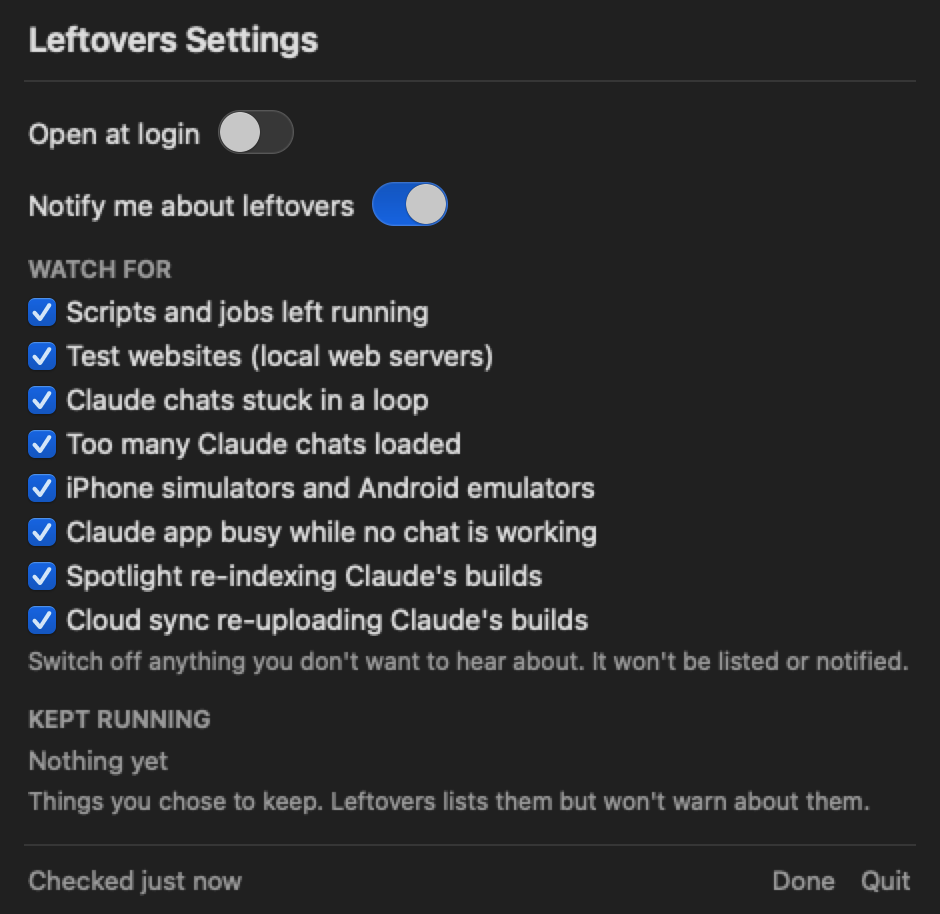
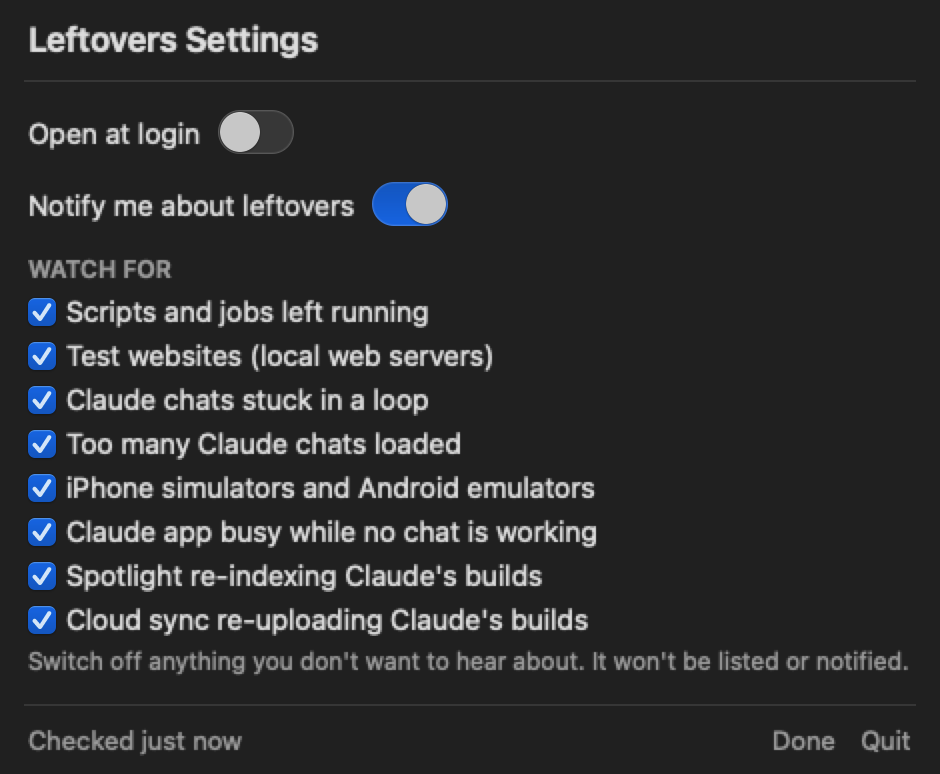
Keep = 'still using it now' (moves to In use, greyed, ends with that run); no unplug notification
- Removed the 'you're on battery' notification
- Keep applies to that one run only: the row moves to Running · in use, greyed, and comes
  back as normal next time; the Kept list in Settings is gone
- Spotlight and cloud sync get 'Don't warn again' (switches that check off)

Changed region(s): [[0.0309, 0.031, 0.9564, 0.8992], [0.0309, 0.9302, 0.2468, 0.9922], [0.8021, 0.9302, 0.9564, 0.9922]]

diff --git a/Sources/Leftovers/Monitor.swift b/Sources/Leftovers/Monitor.swift
@@ -21,7 +21,7 @@ final class Monitor: NSObject, ObservableObject {
     @Published var offChecks: Set<Check> {
         didSet { UserDefaults.standard.set(offChecks.map(\.rawValue), forKey: "offChecks") }
     }
-    @Published var kept: [String: String] {   // keepKey → label shown in Settings
+    @Published var kept: [String: String] {   // keepKey → label (things you said you're still using)
         didSet { UserDefaults.standard.set(kept, forKey: "kept") }
     }
 
@@ -124,6 +124,9 @@ final class Monitor: NSObject, ObservableObject {
             return i
         }
         tracks = newTracks
+        // A keep only lasts while that run is going: forget keeps for things that have stopped.
+        let live = Set(items.map(\.keepKey))
+        if kept.keys.contains(where: { !live.contains($0) }) { kept = kept.filter { live.contains($0.key) } }
     }
 
     /// For testing from Terminal: `Leftovers --stop <text>` stops (or closes) the first row whose title contains it.
@@ -219,7 +222,7 @@ final class Monitor: NSObject, ObservableObject {
                             ports: st.ports, connections: st.connections,
                             lastOutput: st.writes.map(\.modified).max(), averageCpu: st.average,
                             startTimes: fam.map { $0.start.timeIntervalSince1970 },
-                            keepKey: "\(classifier.project(for: root.cwd) ?? root.cwd)|\(Describe.title(for: main))",
+                            keepKey: "\(kind.rawValue)-\(root.pid)-\(Int(root.start.timeIntervalSince1970))",
                             noun: st.ports.isEmpty ? Describe.noun(for: main) : "Test website",
                             starter: main.pid != root.pid && root.name != main.name ? Describe.title(for: root) : nil)
             let age = Describe.duration(now.timeIntervalSince(root.start))

diff --git a/Sources/Leftovers/MenuView.swift b/Sources/Leftovers/MenuView.swift
@@ -203,6 +203,7 @@ struct ItemRow: View {
             .disabled(stopping)
             if expanded { details.padding(.leading, 30) }
         }
+        .opacity(item.verdict.tag == "Kept" ? 0.55 : 1)
         .padding(.vertical, 10).padding(.horizontal, 10)
         .background(RoundedRectangle(cornerRadius: 10).fill(Color.primary.opacity(0.05)))
     }
@@ -291,24 +292,26 @@ struct ItemRow: View {
                 a.append((item.kind == .simulator ? "Shut down" : "Stop", stop))
             }
             if m.kept[item.keepKey] != nil {
-                a.append(("Stop keeping", { m.unkeep(item.keepKey) }))
+                a.append(("Undo keep", { m.unkeep(item.keepKey) }))
             } else if item.verdict.level >= .info {
                 a.append(("Keep", { m.keep(item) }))
             }
         case .android:
             a.append(("Shut down", stop))
-            if m.kept[item.keepKey] != nil { a.append(("Stop keeping", { m.unkeep(item.keepKey) })) }
+            if m.kept[item.keepKey] != nil { a.append(("Undo keep", { m.unkeep(item.keepKey) })) }
             else if item.verdict.level >= .info { a.append(("Keep", { m.keep(item) })) }
         case .claudePreview:
             a.append(("Open Claude", { m.openClaude() }))
         case .spotlight:
             a.append(("Open Spotlight settings", { m.openSpotlightSettings() }))
+            a.append(("Don't warn again", { m.switchOff(item) }))
         case .chatHelper:
             if !item.busy { a.append(("Close", stop)) }
         case .helperPileup:
             break
         case .cloudSync:
             if let f = item.apps.first { a.append(("Show folder", { m.reveal(f) })) }
+            a.append(("Don't warn again", { m.switchOff(item) }))
         case .sessionJob:
             break
         }

diff --git a/Sources/Leftovers/Notifier.swift b/Sources/Leftovers/Notifier.swift
@@ -2,8 +2,7 @@ import AppKit
 import IOKit.ps
 import UserNotifications
 
-/// Posts one notification per problem (again only if it gets worse), with Stop/Keep buttons,
-/// plus a single heads-up when you unplug while things are still running.
+/// Posts one notification per problem (again only if it gets worse), with Stop/Keep buttons.
 final class Notifier: NSObject, UNUserNotificationCenterDelegate {
     static let shared = Notifier()
     let m = Monitor.shared
@@ -60,21 +59,6 @@ final class Notifier: NSObject, UNUserNotificationCenterDelegate {
             post(id: i.id, title: title, body: i.verdict.message, category: category, quiet: quiet)
         }
 
-        // Just unplugged: one summary of what is still running.
-        if !wasOnBattery && m.battery.onBattery {
-            let sims = m.items.filter { $0.kind == .simulator }.count
-            let left = m.items.filter { $0.kind == .leftover && !m.kept.keys.contains($0.keepKey) }.count
-            let servers = m.items.filter { $0.kind == .appStarted && !$0.ports.isEmpty }.count
-            var parts: [String] = []
-            if left > 0 { parts.append(left == 1 ? "1 leftover" : "\(left) leftovers") }
-            if sims > 0 { parts.append(sims == 1 ? "1 simulator" : "\(sims) simulators") }
-            if servers > 0 { parts.append(servers == 1 ? "1 dev server" : "\(servers) dev servers") }
-            if !parts.isEmpty {
-                let list = ListFormatter.localizedString(byJoining: parts)
-                post(id: "unplugged", title: "You're on battery",
-                     body: "Still running from Claude: \(list).", category: "review", quiet: quiet)
-            }
-        }
     }
 
     private func post(id: String, title: String, body: String, category: String, quiet: Bool) {

diff --git a/Sources/Leftovers/DemoRender.swift b/Sources/Leftovers/DemoRender.swift
@@ -45,7 +45,7 @@ enum DemoRender {
         let ctx = RuleContext(now: now, onBattery: true, lastSimulatorUse: now.addingTimeInterval(-simUse),
                               lastClaudeWorking: now.addingTimeInterval(-3 * 3600),
                               lastAndroidUse: now.addingTimeInterval(-5 * 3600),
-                              kept: [])
+                              kept: ["kept-demo"])
         demo = demo.map { item in
             var i = item
             let track = Track(firstSeen: i.started, heavySince: i.started,
@@ -87,7 +87,8 @@ enum DemoRender {
                             project: "morse-waldo", ports: [5174], noun: "Test website")
             live.connections = 1
             var simInUse = sim; simInUse.verdict = Verdict(level: .none, tag: ""); simInUse.started = now.addingTimeInterval(-3600)
-            return ([site, live, simInUse], false)
+            var keptLoop = loop; keptLoop.verdict = Verdict(level: .none, tag: "Kept"); keptLoop.keepKey = "kept-demo"
+            return ([site, live, simInUse, keptLoop], false)
         case "leftovers":
             return ([stuck, loop, site], true)
         case "devices":

diff --git a/Sources/Leftovers/Rules.swift b/Sources/Leftovers/Rules.swift
@@ -91,7 +91,7 @@ enum Rules {
         case .spotlight, .cloudSync:
             parts = [busy, "\(i.apps.count) build folder\(i.apps.count == 1 ? "" : "s") changed"]
         }
-        if ctx.kept.contains(i.keepKey) { parts.append("kept") }
+        if ctx.kept.contains(i.keepKey) { parts.append("you're using it") }
         return parts.joined(separator: " · ")
     }
 
@@ -102,7 +102,8 @@ enum Rules {
         let now = ctx.now
         let min = 60.0, hour = 3600.0
 
-        if ctx.kept.contains(i.keepKey) { return Verdict(level: .info, tag: "Kept") }
+        // Kept = "I'm still using it": listed under In use (greyed), no warnings, until it stops.
+        if ctx.kept.contains(i.keepKey) { return Verdict(level: .none, tag: "Kept") }
 
         let cost = i.batteryPerHour.map { $0 >= 1 ? String(format: " It's using about %.0f%% of your battery an hour.", $0) : "" } ?? ""
         let heavyFor = track.heavySince.map { now.timeIntervalSince($0) } ?? 0

diff --git a/Sources/Leftovers/Model.swift b/Sources/Leftovers/Model.swift
@@ -93,7 +93,7 @@ struct Item: Identifiable, Codable, Equatable {
     var lastOutput: Date?         // newest change to a file it is writing
     var averageCpu: Double = 0    // CPU % averaged over each process's whole life
     var startTimes: [Double] = [] // start time of each pid, so Stop never hits a reused pid
-    var keepKey = ""              // what "Keep" remembers (project + command, or device + boot)
+    var keepKey = ""              // what "Keep" applies to: this one run (process + start time, device + boot)
     var verdict = Verdict(level: .none, tag: "")
     var noun = ""                 // plain name of what it is ("Python script", "Video export")
     var starter: String?          // the script that started it, when that's a different program

diff --git a/Tests/LeftoversTests/RulesTests.swift b/Tests/LeftoversTests/RulesTests.swift
@@ -93,6 +93,13 @@ private func heavyTrack(for ago: TimeInterval, connectedAgo: TimeInterval? = nil
     }
 
 
+    @Test func keptMeansInUseForNow() {
+        let i = item(.leftover, cpu: 250, perHour: 8, lastOutputAgo: 47 * hour)
+        let v = Rules.judge(i, track: heavyTrack(for: 48 * hour), ctx: ctx(kept: ["key-x"]))
+        #expect(v.level == .none)   // listed under In use, no warning
+        #expect(Rules.status(i, track: heavyTrack(for: 48 * hour), ctx: ctx(kept: ["key-x"])).hasSuffix("you're using it"))
+    }
+
     @Test func keep() {
         let i = item(.leftover, cpu: 250, perHour: 8, lastOutputAgo: 47 * hour)
         let t = heavyTrack(for: 48 * hour)

diff --git a/Sources/Leftovers/SettingsView.swift b/Sources/Leftovers/SettingsView.swift
@@ -30,14 +30,6 @@ struct SettingsView: View {
                 }
             }
 
-            section("Kept running", note: "Things you chose to keep. Leftovers lists them but won't warn about them.") {
-                if m.kept.isEmpty {
-                    Text("Nothing yet").font(.system(size: 13)).foregroundStyle(.secondary)
-                }
-                ForEach(m.kept.sorted { $0.value < $1.value }, id: \.key) { key, label in
-                    row(label, button: "Forget") { m.unkeep(key) }
-                }
-            }
         }
         .toggleStyle(.switch)
         .controlSize(.regular)

diff --git a/Sources/Leftovers/Actions.swift b/Sources/Leftovers/Actions.swift
@@ -40,6 +40,12 @@ extension Monitor {
         rejudge()
     }
 
+    /// "Don't warn again": switches that whole check off (same as unticking it in Settings → Watch for).
+    func switchOff(_ i: Item) {
+        offChecks.insert(Check.of(i))
+        scan()
+    }
+
     func unkeep(_ key: String) {
         kept[key] = nil
         rejudge()

diff --git a/README.md b/README.md
@@ -53,9 +53,9 @@ It warns you only when something is both **unowned** (its Claude session has end
 | 🟠 | A simulator running 2+ h without being used | "iPhone 17 is running unused" |
 | ⚪ | A dev server nobody has connected to for 1+ h | shown in the menu only |
 
-On battery, all waits are cut in half. Each problem is announced once, with **Stop**, **Keep running** and **Remind me in an hour** buttons. When you unplug, you get one summary of anything still running.
+On battery, all waits are cut in half. Each problem is announced once, with **Stop** and **Keep running** buttons.
 
-**It never stops anything without a click.** Stop asks the process to quit, waits 5 seconds, then forces it if needed. It also stops the script that started it, so nothing starts again. **Keep** is remembered for that project and command.
+**It never stops anything without a click.** Stop asks the process to quit, waits 5 seconds, then forces it if needed. It also stops the script that started it, so nothing starts again. **Keep** means *you're still using it right now*: it moves to **Running · in use** (greyed out) and stops warning until it ends. Next time it runs, Leftovers watches it again. For Spotlight and cloud sync, **Don't warn again** switches that check off for good.
 
 **Settings → Watch for** lets you switch off any kind of check (say, Spotlight, if you'd rather keep it indexing); switched-off checks are never listed or notified.
 
@@ -66,7 +66,7 @@ On battery, all waits are cut in half. Each problem is announced once, with **St
 - It only looks at what Claude started. It finds Claude's chats by the program itself, wherever they run, and follows everything each chat starts. It **remembers** what each chat started, so a leftover is still recognised after the chat closes, in any folder. As a backup it also checks Claude's scratch folders and the folders Claude's own records say your chats worked in. There's nothing to set up, and it never touches your normal apps.
 - It's very light: about 0.02% of the battery per hour. It checks every minute on battery and every 3 minutes when plugged in.
 
-<img src="images/settings.png" width="400" alt="Settings: open at login, notifications, project folders, kept list">
+<img src="images/settings.png" width="400" alt="Settings: open at login, notifications, and which checks to watch for">
 
 ## Build
 
